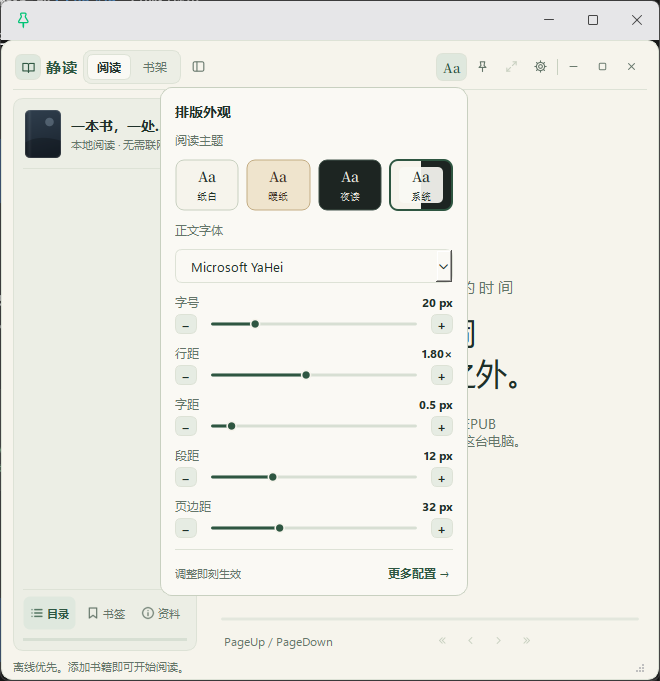
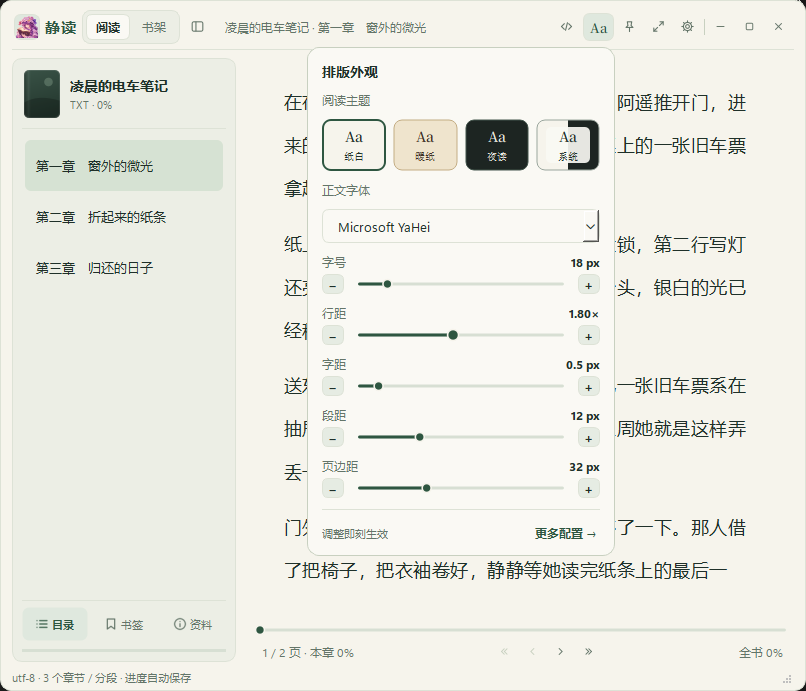
style: 横排关于页链接并更新截图
将关于页的三个 GitHub 入口放在同一行，改善按钮的排列。同步更新中英文 README 共用的书架和排版外观截图。

diff --git a/src/quietreader/ui/settings_page.py b/src/quietreader/ui/settings_page.py
@@ -721,13 +721,18 @@ class SettingsPage(QWidget):
 
         card, rows = self._make_card(page)
         rows.addWidget(self._tr_label("GitHub", "settingsRowTitle"))
+        rows.addSpacing(6)
+        links = QHBoxLayout()
+        links.setSpacing(8)
         for label, url in (
             ("项目主页", PROJECT_URL),
             ("反馈问题", f"{PROJECT_URL}/issues"),
             ("发布记录", RELEASES_URL),
         ):
             button = self._tr_button(label, lambda _checked=False, link=url: QDesktopServices.openUrl(QUrl(link)), "settingsBtn")
-            rows.addWidget(button, alignment=Qt.AlignmentFlag.AlignLeft)
+            links.addWidget(button)
+        links.addStretch(1)
+        rows.addLayout(links)
         layout.addWidget(card)
         layout.addStretch(1)
 
